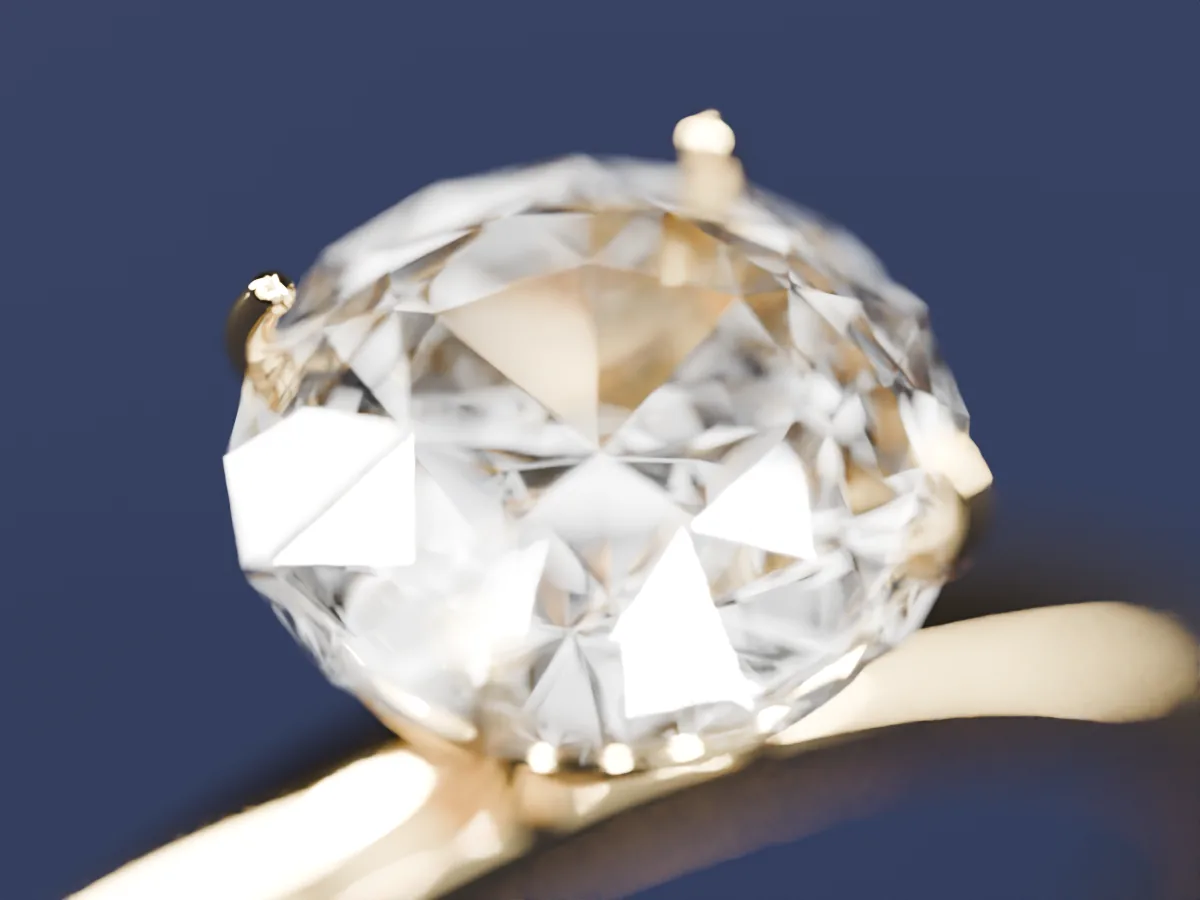
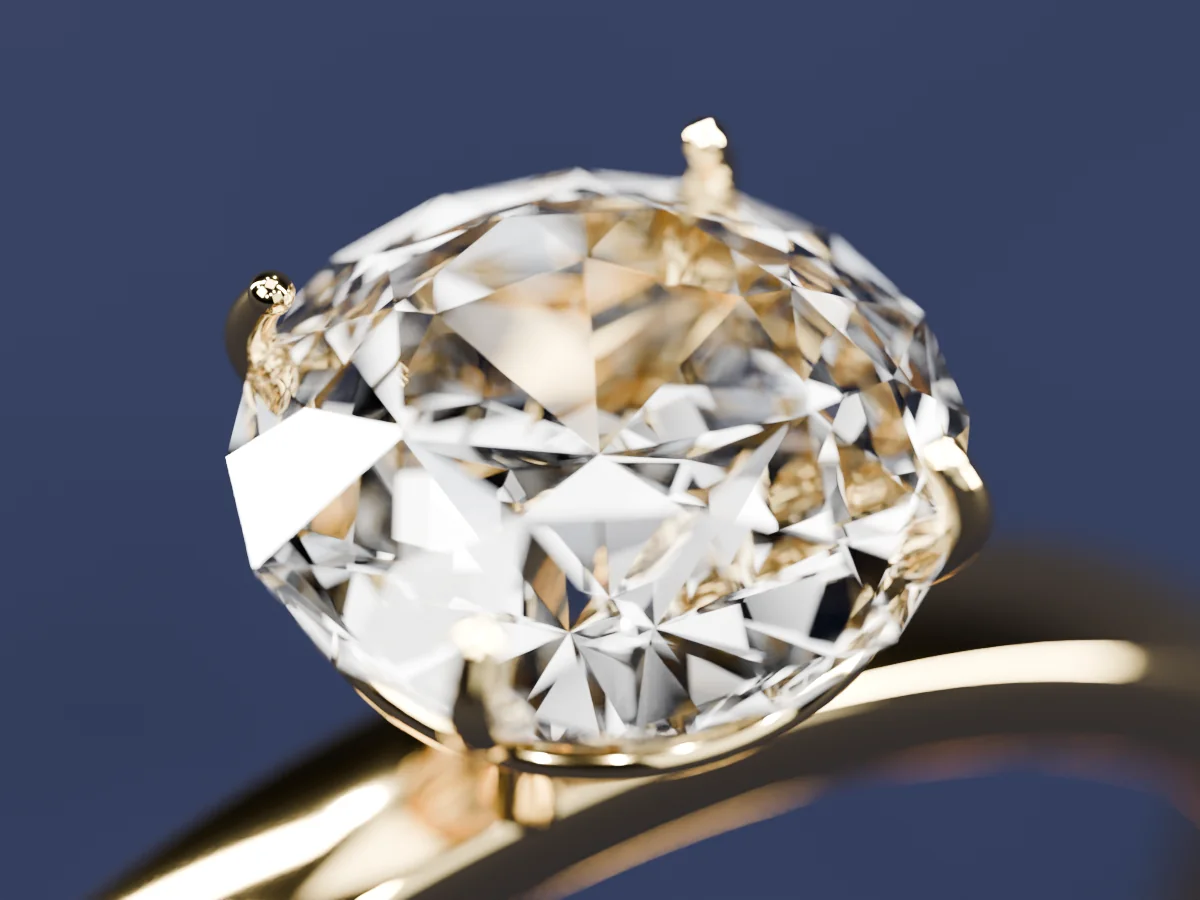
SERAVEL: sharp stones in every photo and a phone stage for the 3D ring
Every photo with a stone now focuses on that stone. The claw macro is stopped
down so the whole crown is sharp. Still URLs carry a version so browsers fetch
the new files. On phones the 3D ring has its own stage under the header with
the controls below it. The camera fits the ring, the stone or the inside of
the band to that stage. Nothing sits under the header, the panel or the
purchase bar.

Claude-Session: https://claude.ai/code/session_018BGEB6D8wuTAowK1UCa7K5

Changed region(s): [[0.0308, 0.1244, 1.0, 1.0]]

diff --git a/seravel/index.html b/seravel/index.html
@@ -10,7 +10,7 @@
 <link rel="preconnect" href="https://fonts.googleapis.com"><link rel="preconnect" href="https://fonts.gstatic.com" crossorigin>
 <link href="https://fonts.googleapis.com/css2?family=Spectral:wght@300;400&family=Hanken+Grotesk:wght@400;500;600&display=swap" rel="stylesheet" media="print" onload="this.media='all'">
 <noscript><link href="https://fonts.googleapis.com/css2?family=Spectral:wght@300;400&family=Hanken+Grotesk:wght@400;500;600&display=swap" rel="stylesheet"></noscript>
-<link rel="preload" as="image" href="/seravel/stills/hero-photo.webp" fetchpriority="high">
+<link rel="preload" as="image" href="/seravel/stills/hero-photo.webp?v=cf83454b" fetchpriority="high">
 <script>document.documentElement.classList.add('js')</script>
 <link rel="stylesheet" href="/src/kit/kit.css">
 <link rel="stylesheet" href="/src/seravel/style.css">
@@ -33,7 +33,7 @@
 
 <main id="top">
   <section class="s-hero">
-    <img class="s-hero-photo" src="/seravel/stills/hero-photo.webp" alt="A diamond ring, a sapphire pendant and two gold hoops on dark navy velvet." width="2400" height="1500" fetchpriority="high">
+    <img class="s-hero-photo" src="/seravel/stills/hero-photo.webp?v=cf83454b" alt="A diamond ring, a sapphire pendant and two gold hoops on dark navy velvet." width="2400" height="1500" fetchpriority="high">
     <div class="s-hero-copy">
       <p class="s-eyebrow">Fine jewelry · Made to order</p>
       <h1>Fine jewelry made at the bench</h1>
@@ -50,6 +50,7 @@
   </section>
 
   <section class="s-design" id="design" data-3d aria-labelledby="design-title">
+    <div class="s-viewport" aria-hidden="true"></div>
     <div class="s-config">
       <p class="s-kicker">Solace Ring</p>
       <h2 id="design-title">Design your ring</h2>
@@ -85,7 +86,7 @@
 
   <section class="s-workshop" id="workshop" aria-labelledby="ws-title">
     <div class="s-wrap s-split">
-      <img class="s-ws-img" src="/seravel/stills/workshop.webp" alt="A Solace ring standing on a walnut bench pin, with a loupe, needle files and a ring mandrel on the bench." loading="lazy" width="1200" height="900">
+      <img class="s-ws-img" src="/seravel/stills/workshop.webp?v=cf83454b" alt="A Solace ring standing on a walnut bench pin, with a loupe, needle files and a ring mandrel on the bench." loading="lazy" width="1200" height="900">
       <div>
         <p class="s-kicker">The workshop</p>
         <h2 id="ws-title">Three jewelers and one long bench</h2>
@@ -126,11 +127,11 @@
     <div class="s-wrap">
       <div class="s-head"><h2 id="jr-title">From the journal</h2><p>Short notes on choosing and caring for fine jewelry.</p></div>
       <ul class="s-posts">
-        <li><img src="/seravel/stills/journal-1.webp" alt="A gold ring in a small dark ceramic dish, with a soft cloth beside it." loading="lazy" width="1200" height="900"><h3>How to clean a ring at home</h3><p>Warm water, a drop of dish soap and a soft toothbrush. You need nothing else.</p>
+        <li><img src="/seravel/stills/journal-1.webp?v=cf83454b" alt="A gold ring in a small dark ceramic dish, with a soft cloth beside it." loading="lazy" width="1200" height="900"><h3>How to clean a ring at home</h3><p>Warm water, a drop of dish soap and a soft toothbrush. You need nothing else.</p>
           <details><summary>Read more</summary><p>Soak the ring for ten minutes. Brush under the stone where lotion and soap build up. Rinse it and dry it with a soft cloth. Skip toothpaste and baking soda. Both scratch gold.</p></details></li>
-        <li><img src="/seravel/stills/journal-2.webp" alt="A diamond, a sapphire and an emerald side by side." loading="lazy" width="1200" height="900"><h3>Diamond, sapphire or emerald</h3><p>Each stone wears differently. Here is what to expect from each one.</p>
+        <li><img src="/seravel/stills/journal-2.webp?v=cf83454b" alt="A diamond, a sapphire and an emerald side by side." loading="lazy" width="1200" height="900"><h3>Diamond, sapphire or emerald</h3><p>Each stone wears differently. Here is what to expect from each one.</p>
           <details><summary>Read more</summary><p>Diamond is the hardest and suits daily wear. Sapphire is nearly as hard and keeps its color for life. Emerald is softer. It suits a ring you take off for the gym and for housework.</p></details></li>
-        <li><img src="/seravel/stills/journal-3.webp" alt="Four gold claws holding a round diamond, seen up close." loading="lazy" width="1200" height="900"><h3>Why we use four claws</h3><p>Four claws show more of the stone. Six claws hold it more tightly.</p>
+        <li><img src="/seravel/stills/journal-3.webp?v=cf83454b" alt="Four gold claws holding a round diamond, seen up close." loading="lazy" width="1200" height="900"><h3>Why we use four claws</h3><p>Four claws show more of the stone. Six claws hold it more tightly.</p>
           <details><summary>Read more</summary><p>A round stone in four claws looks a little square from above. It also lets in more light from the sides. We check the claws when you send a ring in for cleaning.</p></details></li>
       </ul>
     </div>

diff --git a/src/seravel/main.js b/src/seravel/main.js
@@ -18,6 +18,7 @@ const params = new URLSearchParams(location.search);
 const RING = 'seravel-solace-ring';
 const money = (n, c = 'USD') => new Intl.NumberFormat('en-US', { style: 'currency', currency: c, maximumFractionDigits: 0 }).format(n);
 const slug = (h) => h.replace('seravel-', '');
+const STILLS_V = 'cf83454b'; // bump when the photos change so browsers fetch the new files
 
 const ring = { Metal: 'Yellow gold', Stone: 'Diamond', size: '7', engraving: '' };
 const other = { 'seravel-halo-pendant': { Metal: 'Yellow gold', Chain: '18 in' }, 'seravel-tide-hoops': { Metal: 'Yellow gold', Size: 'Small' } };
@@ -100,7 +101,6 @@ function setView(v) {
 $$('.s-view').forEach((b) => b.addEventListener('click', () => {
   setView(b.dataset.view);
   // Phones: the panel covers the lower screen. Bring the ring back into view when a view is chosen.
-  if (innerWidth < 700) $('#design').scrollIntoView({ behavior: reduced ? 'auto' : 'smooth' });
 }));
 
 // --- Collection grid and the other pieces -------------------------------------------
@@ -109,7 +109,7 @@ const fromPrice = (h) => {
   return vs.length ? `From ${money(Math.min(...vs.map((v) => v.price)), vs[0].currencyCode)}` : '';
 };
 $('#grid').innerHTML = Object.entries(PIECES).map(([h, p]) => `<li class="s-card" data-h="${h}">
-  <img src="/seravel/stills/${slug(h)}.webp" alt="The ${p.name}. ${p.line}" loading="lazy" width="800" height="1000">
+  <img src="/seravel/stills/${slug(h)}.webp?v=${STILLS_V}" alt="The ${p.name}. ${p.line}" loading="lazy" width="800" height="1000">
   <h3>${p.name}</h3><p class="s-card-kind">${p.kind} · 18k gold</p><p class="s-card-line">${p.line}</p>
   <p class="s-card-price" data-from="${h}"></p>
   <a class="s-card-btn" href="${h === RING ? '#design' : '#pieces'}">${h === RING ? 'Design your ring' : `View the ${p.name}`}</a></li>`).join('');
@@ -117,7 +117,7 @@ $('#grid').innerHTML = Object.entries(PIECES).map(([h, p]) => `<li class="s-card
 const OPTION = { 'seravel-halo-pendant': ['Metal', 'Chain'], 'seravel-tide-hoops': ['Metal', 'Size'] };
 const VALUES = { Metal: Object.keys(METALS), Chain: ['16 in', '18 in', '20 in'], Size: ['Small', 'Medium'] };
 $('#piece-list').innerHTML = Object.keys(other).map((h) => `<article class="s-piece" data-h="${h}" aria-labelledby="p-${slug(h)}">
-  <img src="/seravel/stills/${slug(h)}.webp" alt="The ${PIECES[h].name}." loading="lazy" width="800" height="1000">
+  <img src="/seravel/stills/${slug(h)}.webp?v=${STILLS_V}" alt="The ${PIECES[h].name}." loading="lazy" width="800" height="1000">
   <div class="s-piece-info"><h3 id="p-${slug(h)}">${PIECES[h].name}</h3><p>${PIECES[h].line}</p>
   ${OPTION[h].map((o) => `<fieldset class="s-group"><legend>${o === 'Size' ? 'Hoop size' : o}</legend><div class="s-chips s-chips-sm">${VALUES[o].map((v) => `<label class="s-chip"><input type="radio" name="${slug(h)}-${o}" value="${v}" data-o="${o}"${other[h][o] === v ? ' checked' : ''}>${o === 'Metal' ? `<span class="s-swatch" style="--c:${METALS[v].color}"></span>` : ''}<span class="s-chip-name">${v}</span></label>`).join('')}</div></fieldset>`).join('')}
   <p class="s-piece-price" data-piece-price="${h}"></p>
@@ -174,6 +174,13 @@ function render() {
 }
 
 // --- 3D ---------------------------------------------------------------------------
+// Phones get the ring in its own stage above the controls. Wide screens draw it behind the page.
+const narrowMq = matchMedia('(max-width: 700px)');
+function placeCanvas() {
+  const gl = $('#gl'), home = narrowMq.matches ? $('.s-viewport') : $('.s-stage');
+  document.documentElement.style.setProperty('--s-hdr', `${$('.s-top').offsetHeight}px`);
+  if (gl.parentElement !== home) { home.appendChild(gl); scene?.reframe(); }
+}
 function fallback() { body.classList.add('no-gl'); body.classList.remove('gl-ready'); }
 async function start3d() {
   const device = readDevice();
@@ -186,6 +193,8 @@ async function start3d() {
       onReady: () => requestAnimationFrame(() => body.classList.add('gl-ready')),
     });
     if (!scene) return fallback();
+    placeCanvas();
+    window.addEventListener('resize', placeCanvas);
     scene.setMetal(ring.Metal);
     scene.setStone(ring.Stone);
     scene.setEngraving(ring.engraving);

diff --git a/src/seravel/scene.js b/src/seravel/scene.js
@@ -234,14 +234,35 @@ export async function createSeravelScene(canvas, { tier, reducedMotion, onReady,
   }
 
   // Phones: the ring sits in the top half, above the controls.
+  // Phones: the canvas sits in its own stage above the controls, so the picture is centered (no offset) and the
+  // camera backs off until the part of interest fits that stage. Wide screens keep the ring right of the panel.
+  const phone = () => canvas.parentElement?.classList.contains('s-viewport');
   function frame() {
+    stage.resize();
     const w = canvas.clientWidth, h = canvas.clientHeight;
-    if (w > 900) camera.setViewOffset(w, h, -w * 0.2, 0, w, h); else camera.setViewOffset(w, h, 0, h * 0.22, w, h);
+    if (phone()) camera.clearViewOffset();
+    else if (w > 900) camera.setViewOffset(w, h, -w * 0.2, 0, w, h);
+    else camera.setViewOffset(w, h, 0, h * 0.22, w, h);
     camera.updateProjectionMatrix();
   }
   window.addEventListener('resize', frame);
   frame();
-  const far = () => (canvas.clientWidth < 700 ? (view === "front" ? 2.2 : 1.6) : 1);
+  // What each view must show in full, as a sphere: [center, radius].
+  const FIT = {
+    front: [[0, top * 0.5, 0], top * 0.58],
+    macro: [[0, top - 0.04, 0], 0.08],
+    inside: [[0, cy - bandR * 0.5, 0], bandR * 1.2, [0, 0.62, 0.78]],  // look down onto the lower inside of the band
+  };
+  const fitPos = new THREE.Vector3(), fitDir = new THREE.Vector3();
+  function fitView(v) {
+    const [p, g] = VIEW[v], [c, r, dir] = FIT[v] || [g, 0.1];
+    const vf = THREE.MathUtils.degToRad(camera.fov), hf = 2 * Math.atan(Math.tan(vf / 2) * camera.aspect);
+    const dist = (r / Math.sin(Math.min(vf, hf) / 2)) * 1.06;
+    if (dir) fitDir.set(...dir).normalize(); else fitDir.set(...p).sub(new THREE.Vector3(...g)).normalize();
+    fitPos.set(...c).addScaledVector(fitDir, dist);
+    return [fitPos, c];
+  }
+  const far = () => 1;
 
   const camPos = new THREE.Vector3(...VIEW.front[0]), camLook = new THREE.Vector3(...VIEW.front[1]);
   const tmp = new THREE.Vector3(), tmp2 = new THREE.Vector3(), view3 = new THREE.Vector3(), lightDirs = [new THREE.Vector3(-0.6, 0.6, 0.5).normalize(), new THREE.Vector3(0.7, 0.4, 0.3).normalize(), new THREE.Vector3(0, 1, 0.2).normalize()];
@@ -253,9 +274,15 @@ export async function createSeravelScene(canvas, { tier, reducedMotion, onReady,
     holder.rotation.y += (yawT - holder.rotation.y) * (view === 'inside' ? sm(4) : 1);
     tilt = [tilt[0] + (ptr[0] - tilt[0]) * sm(3), tilt[1] + (ptr[1] - tilt[1]) * sm(3)];
 
-    const [p, g] = VIEW[view];
-    tmp.set(...g);
-    tmp2.set(...p).sub(tmp).multiplyScalar(far()).add(tmp);
+    if (phone()) {
+      const [fp, fc] = fitView(view);
+      tmp.set(...fc);
+      tmp2.copy(fp);
+    } else {
+      const [p, g] = VIEW[view];
+      tmp.set(...g);
+      tmp2.set(...p).sub(tmp).multiplyScalar(far()).add(tmp);
+    }
     tmp2.x += tilt[0] * -0.03; tmp2.y += tilt[1] * -0.02;
     camPos.lerp(tmp2, sm(2.6));
     camLook.lerp(tmp, sm(2.6));
@@ -290,6 +317,7 @@ export async function createSeravelScene(canvas, { tier, reducedMotion, onReady,
   return {
     setMetal, setStone, setEngraving,
     setView(v) { if (VIEW[v]) view = v; },
+    reframe: frame,
     setActive(on) { if (on !== active) { active = on; on ? stage.start() : stage.stop(); } },
   };
 }

diff --git a/src/seravel/style.css b/src/seravel/style.css
@@ -82,6 +82,7 @@ main>section:not(.s-design){position:relative;z-index:1}
 
 /* Ring designer: controls left, the 3D ring right */
 .s-design{min-height:100vh;padding:10vh var(--gut) 8vh;background:transparent}
+.s-viewport{display:none}
 .s-config{max-width:440px;background:rgba(10,15,28,.82);backdrop-filter:blur(10px);-webkit-backdrop-filter:blur(10px);border:1px solid var(--s-line);padding:26px 26px 20px;position:relative}
 .s-config::before{content:"";position:absolute;right:-1px;top:-1px;width:64px;height:64px;border-radius:50%;border:1px solid var(--s-line);box-shadow:0 0 0 8px rgba(238,241,246,.02),0 0 0 16px rgba(238,241,246,.02);transform:translate(40%,-40%);pointer-events:none}
 .s-config h2{font-size:2.3rem;margin:0 0 6px;line-height:1.05}
@@ -223,8 +224,13 @@ main>section:not(.s-design){position:relative;z-index:1}
   .s-lede{font-size:16px}
   .s-grid{grid-template-columns:minmax(0,1fr)}
   .s-card img{aspect-ratio:1/1}
-  .s-design{padding:44vh 0 4vh}
-  .s-config{max-width:none;border-left:0;border-right:0;padding:20px 16px}
+  .s-design{padding:0 0 4vh;min-height:0;background:var(--s-navy)}
+  /* The 3D stage: sticky under the header, a fixed share of the screen. The controls scroll below it. */
+  .s-viewport{display:block;position:sticky;top:var(--s-hdr,57px);z-index:3;height:min(46svh,420px);background:#070b16 url(/seravel/stills/solace-ring.webp?v=cf83454b) center/contain no-repeat;border-bottom:1px solid var(--s-line)}
+  .s-viewport canvas{display:block;width:100%;height:100%}
+  .gl-ready .s-viewport{background-image:none}
+  .no-gl .s-viewport{height:min(40svh,320px)}
+  .s-config{max-width:none;border:0;padding:20px 16px 90px;background:var(--s-navy);backdrop-filter:none;-webkit-backdrop-filter:none}
   .s-config::before{display:none}
   .s-hint-wide{display:none}.s-hint-narrow{display:inline}
   .s-piece{grid-template-columns:minmax(0,1fr)}

diff --git a/blender/seravel_photos.py b/blender/seravel_photos.py
@@ -184,6 +184,7 @@ def build_ring(metal, stone, loc=(0, 0, 0), turn=25):
 
 def build_pendant(metal, stone, loc=(0, 0, 0), turn=0):
     o = J.pendant('high', mats_for(metal, stone))
+    FOCUS.setdefault('stone', o['stone'])  # in the hero the ring keeps the focus
     return place(o, (loc[0], loc[1], loc[2] + 0.0019), (math.radians(-90), 0, math.radians(turn)))
 
 
@@ -342,13 +343,15 @@ def stones_scene():
         st = J.brilliant(name, J.STONE_D, stone_mat(name, name.lower()))
         st.location = (x, 0, J.stone_dims(J.STONE_D)['pav'] * 0.5)
         st.rotation_euler = (math.radians(22), 0, math.radians(10 * k))
-    camera((0.0, -0.07, 0.045), (0.0, 0.0, 0.002), 100, 13)
+        if name == 'Sapphire':
+            FOCUS['stone'] = st
+    camera((0.0, -0.07, 0.045), (0.0, 0.0, 0.002), 100, 20)  # deep focus so all three stones are sharp
 
 
 def claws_scene():
     """A macro from above and to the side: the four claws holding the stone."""
     build_ring('Yellow gold', 'Diamond', (0, 0, 0), 45)
-    camera((0.006, -0.018, 0.046), (0, 0, 0.0238), 100, 14)
+    camera((0.006, -0.018, 0.046), (0, 0, 0.0238), 100, 40)  # macro: stop down so the whole crown is sharp
 
 
 def main():
@@ -360,6 +363,7 @@ def main():
     set_and_lights(sparks=not ((mode == 'product' and a.get('piece') == 'hoops') or mode in ('workshop', 'dish', 'hero')), dim={'workshop': 0.25, 'dish': 0.35}.get(mode, 1.0))
     if mode in ('workshop', 'dish', 'stones', 'claws'):
         {'workshop': workshop_scene, 'dish': dish_scene, 'stones': stones_scene, 'claws': claws_scene}[mode]()
+        focus_on_stone()  # every scene keeps its stone sharp
         render_settings(int(a.get('w', 1200)), int(a.get('h', 900)), samples)
     elif mode == 'hero':
         build_ring('Yellow gold', 'Diamond', (0.014, 0.0, 0), 30)
@@ -379,7 +383,8 @@ def main():
             focus_on_stone()
         elif piece == 'pendant':
             build_pendant(metal, stone)
-            camera((0.0, -0.11, 0.06), (0, 0.006, 0.002), 100, 8.0)
+            camera((0.0, -0.11, 0.06), (0, 0.006, 0.002), 100, 11.0)
+            focus_on_stone()
         else:
             build_hoops(metal, size=a.get('size', 'Small'))
             camera((0.0, -0.185, 0.055), (0.0, 0.0, 0.0115), 90, 16.0)
